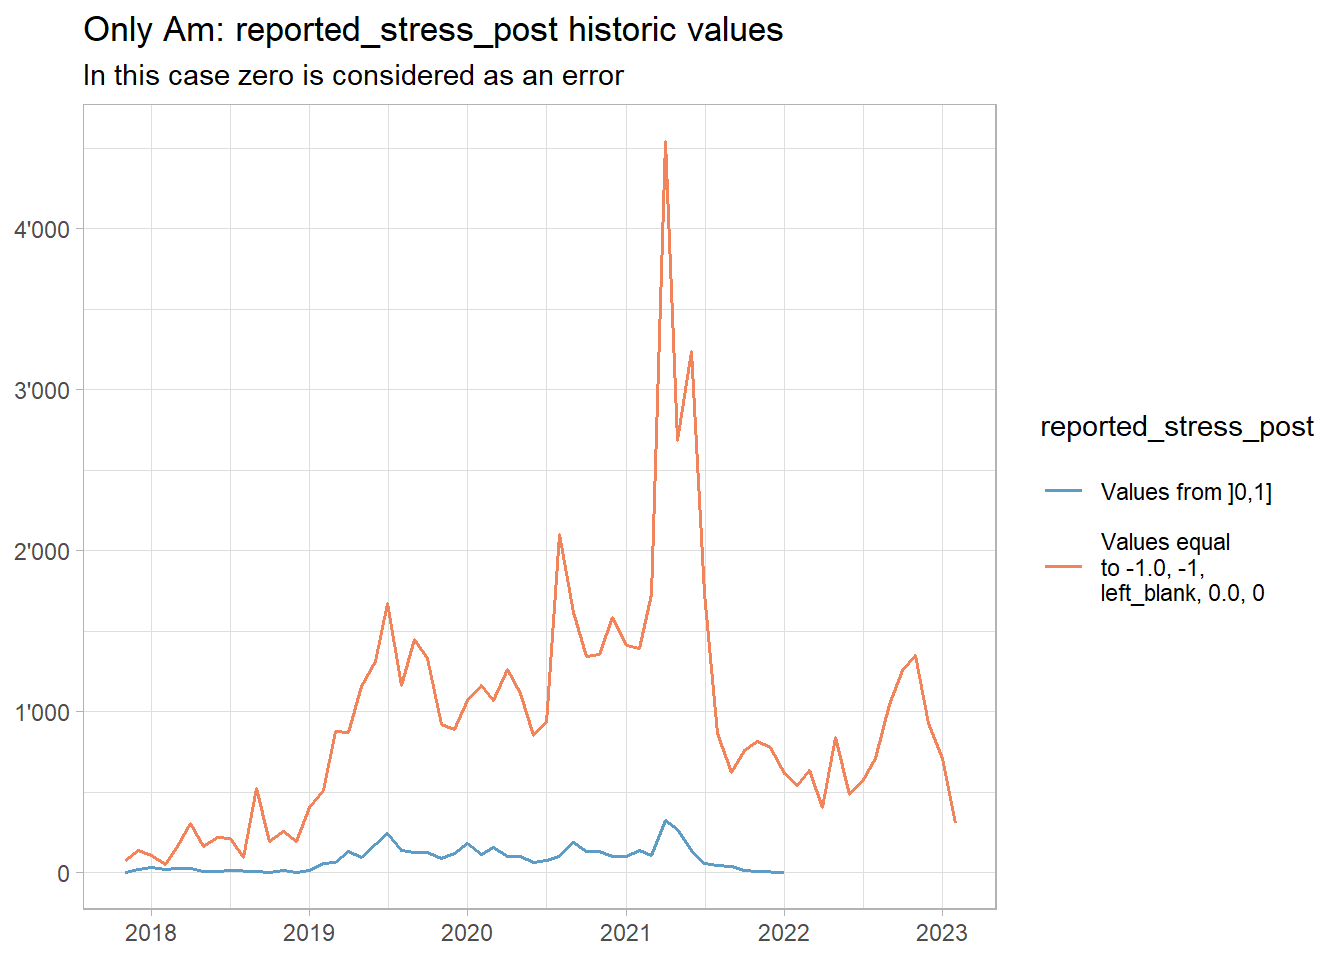
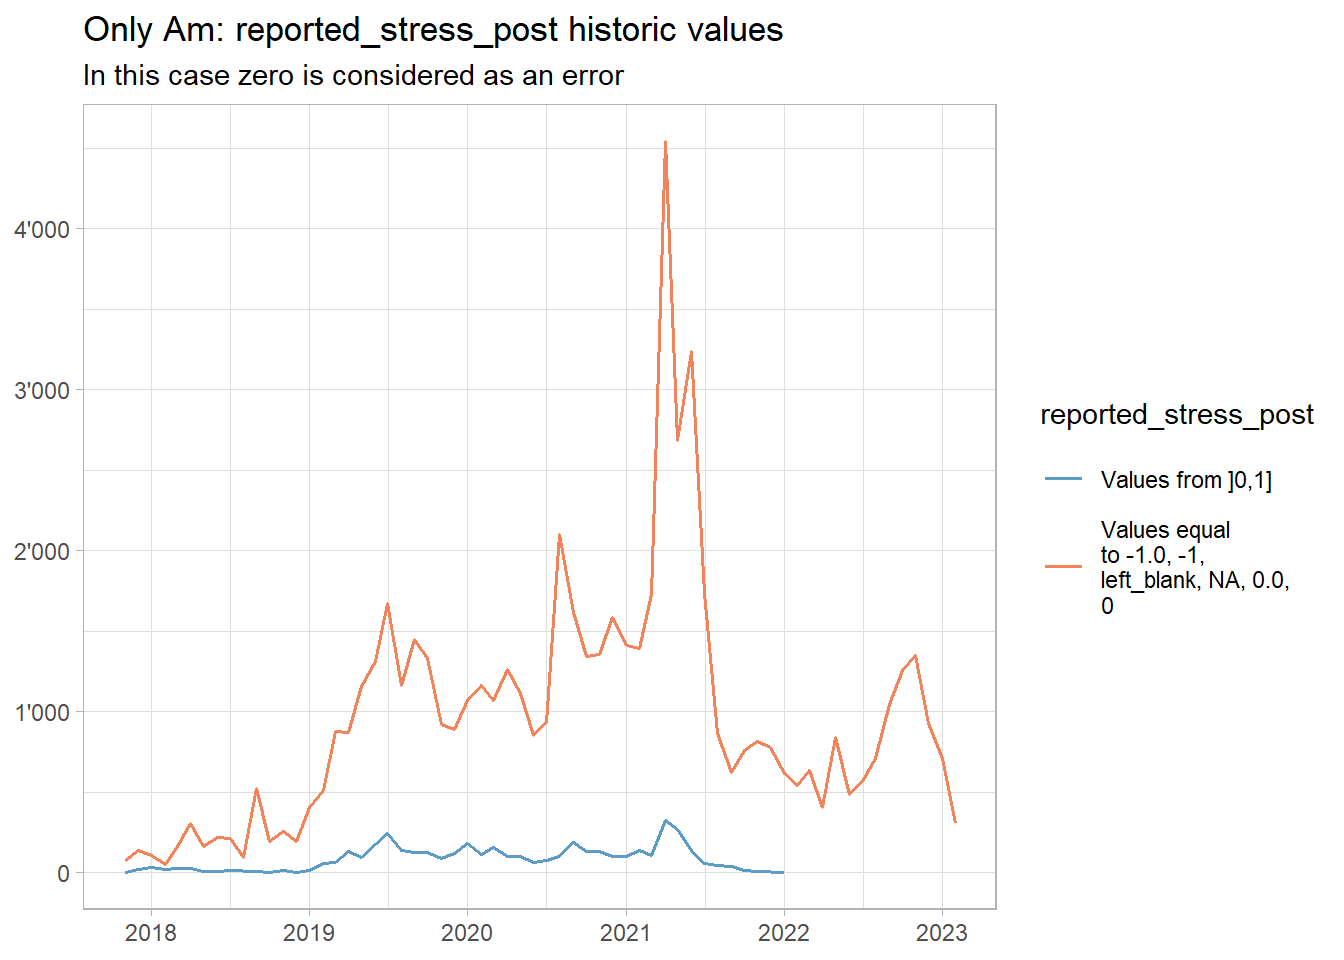
Initial commit

Changed region(s): [[0.7812, 0.4062, 0.9688, 0.625]]

diff --git a/_site/reported_stress_problem.html b/_site/reported_stress_problem.html
@@ -232,7 +232,7 @@ code span.wa { color: #60a0b0; font-weight: bold; font-style: italic; } /* Warni
 <section id="problem" class="level2">
 <h2 class="anchored" data-anchor-id="problem">Problem</h2>
 <ul>
-<li>Reported_stress variables are defaulting all observations to <code>-1</code>, <code>left_blank</code>, etc.</li>
+<li>Reported_stress variables are defaulting all observations to <code>-1</code>, <code>left_blank</code>, <code>NA</code>, etc.</li>
 </ul>
 </section>
 <section id="objectives" class="level2">
@@ -257,14 +257,14 @@ code span.wa { color: #60a0b0; font-weight: bold; font-style: italic; } /* Warni
 </figure>
 </div>
 <p>This information is present in all types of observation with the exception of <code>account_creation</code>.</p>
-<p>When this field of the snapshot interface is left blank or there’s an error in capturing this information, the application fills this variable with default values as <code>-1</code>, <code>-1.0</code>, <code>left_blank</code>.</p>
+<p>When this field of the snapshot interface is left blank or there’s an error in capturing this information, the application fills this variable with default values as <code>-1</code>, <code>-1.0</code>, <code>left_blank</code>, <code>NA</code>.</p>
 <p>This scenario should be the exception, but we will see in the data that is actually the norm.</p>
 <div class="cell">
 <div class="cell-output-display">
 <p><img src="reported_stress_problem_files/figure-html/unnamed-chunk-2-1.png" class="img-fluid" width="672"></p>
 </div>
 </div>
-<p>In this plot we have filtered out the observation type that are <code>account_creation</code>, then we grouped the observations by month and divide the normal values between 0 and 1 from the missing default values: <code>-1</code>, <code>-1.0</code>, <code>left_blank</code>.</p>
+<p>In this plot we have filtered out the observation type that are <code>account_creation</code>, then we grouped the observations by month and divide the normal values between 0 and 1 from the missing default values: <code>-1</code>, <code>-1.0</code>, <code>left_blank</code>, <code>NA</code>.</p>
 <p>As we can see in the plot, historically we had more missing default values than normal values which is data we can work with.</p>
 <div class="cell">
 <div class="cell-output-display">
